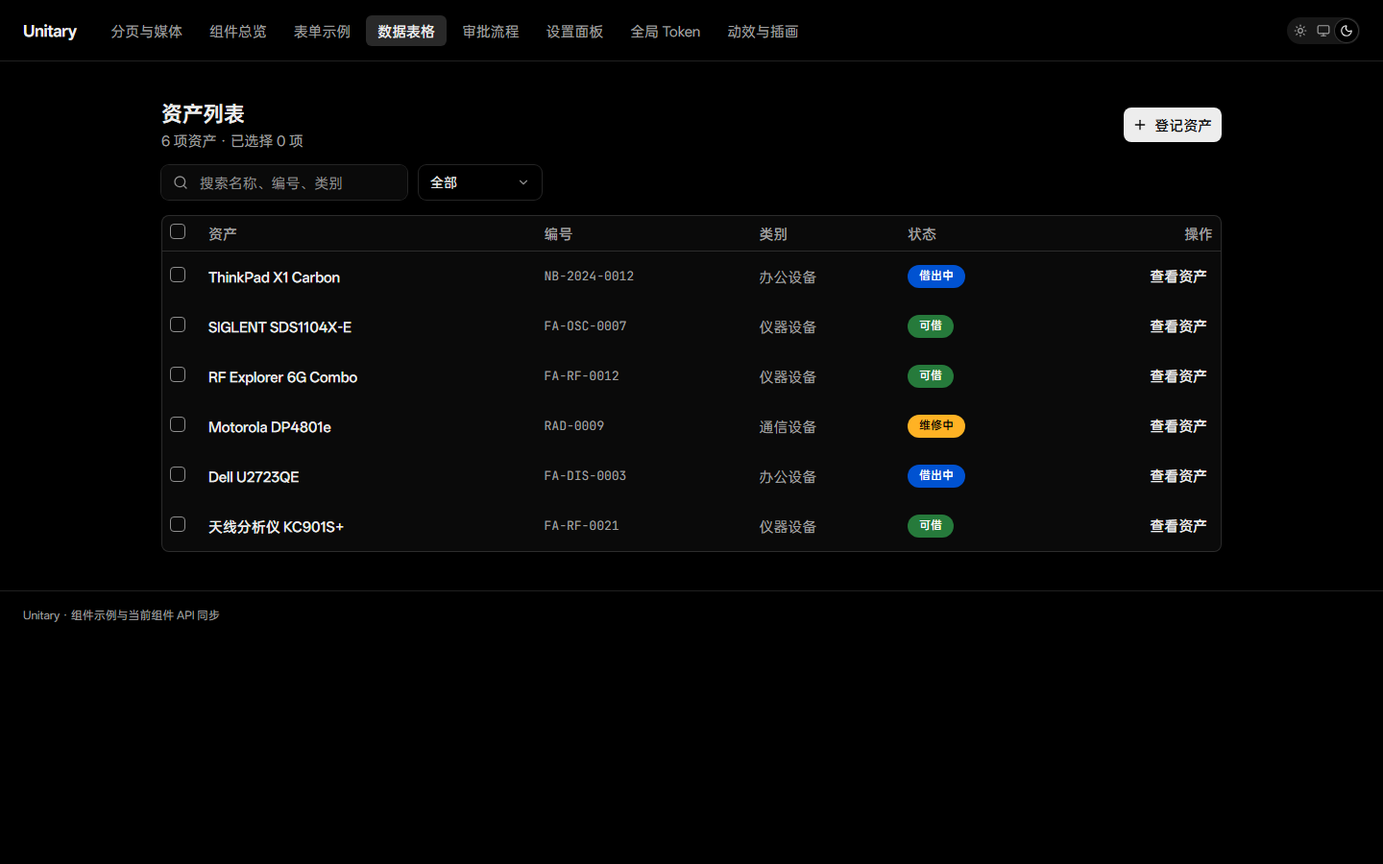
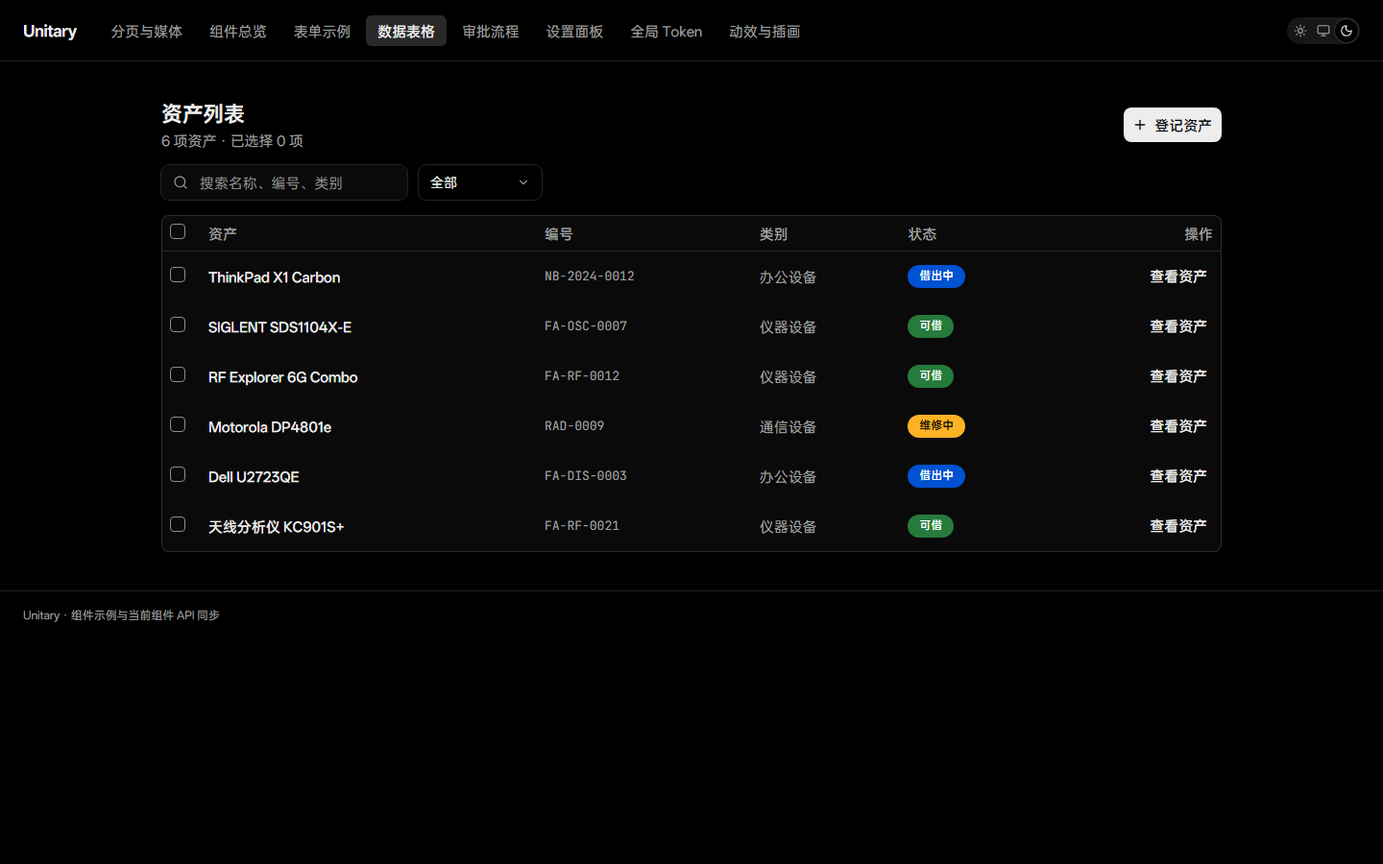
feat(release): add manual beta publishing and portable captures

diff --git a/tests/npm-release.test.ts b/tests/npm-release.test.ts
@@ -6,9 +6,9 @@ import { afterEach, describe, expect, it } from "vitest";
 import { parseDocument } from "yaml";
 import { cleanLibraryOutput } from "../scripts/clean-library-output.mjs";
 import { packageIntegrity, validateInstalledPackage, validatePackageFiles } from "../scripts/lib/package-artifact.mjs";
-import { readPackument, validateArtifact, validateProvenance, validatePublished, validateRelease } from "../scripts/lib/npm-release.mjs";
+import { readPackument, validateArtifact, validateBeta, validateProvenance, validatePublished, validateRelease } from "../scripts/lib/npm-release.mjs";
 
-const manifest = JSON.parse(readFileSync("package.json", "utf8"));
+const manifest = { ...JSON.parse(readFileSync("package.json", "utf8")), version: "0.1.0" };
 const event = { action: "published", release: { draft: false, prerelease: false, tag_name: "v0.1.0" } };
 const directories: string[] = [];
 const fixture = () => {
@@ -79,6 +79,70 @@ describe("npm release validation", () => {
     expect(() => validateProvenance(data, summary, "b".repeat(40))).toThrow("commit");
     expect(() => validateProvenance(data, { ...summary, integrity: packageIntegrity(Buffer.from("different")) }, sha)).toThrow("subject");
     expect(() => validateProvenance({ attestations: [] }, summary, sha)).toThrow("bundle");
+    statement.predicate.buildDefinition.externalParameters.workflow.ref = "refs/heads/master";
+    data.attestations[0].bundle.dsseEnvelope.payload = Buffer.from(JSON.stringify(statement)).toString("base64");
+    expect(() => validateProvenance(data, summary, sha, "refs/heads/master")).not.toThrow();
+    expect(() => validateProvenance(data, summary, sha)).toThrow("workflow");
+  });
+});
+
+describe("manual beta publication", () => {
+  const input = () => ({
+    event: { inputs: { version: "0.1.0-beta.0" } },
+    manifest: { ...manifest, version: "0.1.0-beta.0" },
+    ref: "refs/heads/master",
+    onMaster: true,
+    packument: null,
+  });
+  it("bootstraps only the initial beta and uses OIDC once the package exists", () => {
+    expect(validateBeta(input())).toBe("bootstrap");
+    expect(
+      validateBeta({
+        ...input(),
+        manifest: { ...manifest, version: "0.1.0-beta.1" },
+        event: { inputs: { version: "0.1.0-beta.1" } },
+        packument: { name: manifest.name, versions: {} },
+      }),
+    ).toBe("oidc");
+  });
+  it.each([
+    { ref: "refs/heads/feature" },
+    { ref: "refs/tags/v0.1.0-beta.0" },
+    { onMaster: false },
+    { event: { inputs: { version: "0.1.0-beta.1" } } },
+    { event: {} },
+    { manifest: { ...manifest, version: "0.1.0" } },
+    { manifest: { ...manifest, version: "0.1.0-rc.0" } },
+    {
+      manifest: { ...manifest, version: "0.1.0-beta.1" },
+      event: { inputs: { version: "0.1.0-beta.1" } },
+    },
+    { packument: { name: manifest.name, versions: { "0.1.0-beta.0": {} } } },
+  ])("rejects an invalid beta request %#", (override) => {
+    expect(() => validateBeta({ ...input(), ...override })).toThrow();
+  });
+  it("verifies the beta tag independently of latest", () => {
+    const summary = { version: "0.1.0-beta.0", integrity: "sha512-expected" };
+    const published = {
+      name: manifest.name,
+      publishConfig: { access: "public" },
+      dist: {
+        integrity: summary.integrity,
+        attestations: {
+          provenance: {},
+          url: "https://registry.npmjs.org/-/npm/v1/attestations/package",
+        },
+      },
+    };
+    const packument = {
+      versions: { [summary.version]: published },
+      "dist-tags": { beta: summary.version, latest: "0.0.9" },
+    };
+    expect(() => validatePublished(packument, summary, "beta")).not.toThrow();
+    expect(() => validatePublished(packument, summary)).toThrow("latest");
+    expect(() =>
+      validatePublished({ ...packument, "dist-tags": { beta: "0.1.0-beta.1" } }, summary, "beta"),
+    ).toThrow("beta");
   });
 });
 
@@ -128,13 +192,15 @@ describe("publishing workflow gates", () => {
   it("publishes only after every required validation and scopes the bootstrap credential to one step", () => {
     const parsed = parseDocument(readFileSync(".github/workflows/publish.yml", "utf8"));
     expect(parsed.errors).toEqual([]);
-    type Step = { uses?: string; run?: string; if?: string; env?: Record<string, string> };
+    type Step = { uses?: string; run?: string; if?: string; env?: Record<string, string>; "working-directory"?: string };
     const workflow = parsed.toJS() as {
       on: unknown;
       concurrency: Record<string, unknown>;
       jobs: Record<string, { needs?: string[]; environment?: string; permissions?: Record<string, string>; steps: Step[] }>;
     };
-    expect(workflow.on).toEqual({ release: { types: ["published"] } });
+    expect(workflow.on).toEqual({ release: { types: ["published"] }, workflow_dispatch: { inputs: { version: {
+      description: "Beta version matching package.json (run on master)", required: true, type: "string",
+    } } } });
     expect(workflow.concurrency["cancel-in-progress"]).toBe(false);
     expect(workflow.jobs.package.needs).toEqual(["guard", "ci", "browsers"]);
     const job = workflow.jobs.publish;
@@ -145,8 +211,14 @@ describe("publishing workflow gates", () => {
     expect(credentialSteps).toHaveLength(1);
     expect(credentialSteps[0].if).toBe("steps.artifact.outputs.mode == 'bootstrap'");
     expect(credentialSteps[0].run).toContain('test -n "$NODE_AUTH_TOKEN"');
+    expect(credentialSteps[0].env?.PACKAGE_TAG).toBe("${{ steps.artifact.outputs.tag }}");
+    expect(credentialSteps[0].run).toContain('--tag "$PACKAGE_TAG"');
     const oidc = job.steps.find(step => step.if === "steps.artifact.outputs.mode == 'oidc'");
     expect(oidc?.env?.NODE_AUTH_TOKEN).toBe("");
+    for (const step of [credentialSteps[0], oidc!]) {
+      expect(step["working-directory"]).toBe("${{ runner.temp }}");
+      expect(step.run).toContain('npm publish "$GITHUB_WORKSPACE/.scratch/npm-release/$PACKAGE_FILE"');
+    }
     expect(job.steps.some(step => /pnpm install|build:lib|test:package/.test(step.run ?? ""))).toBe(false);
     const receiptIndex = job.steps.findIndex(step => step.run === "node scripts/npm-release.mjs check-artifact");
     expect(receiptIndex).toBeGreaterThan(0);

diff --git a/tests/e2e/readme-screenshot-settle.spec.ts b/tests/e2e/readme-screenshot-settle.spec.ts
@@ -21,6 +21,21 @@ test("README production preview renders the real styleguide with the capture bro
     expect(requests.some((url) => new URL(url).pathname === "/@vite/client")).toBe(false);
     expect(requests.some((url) => new URL(url).pathname.startsWith("/src/"))).toBe(false);
     await settle(page);
+    const session = await page.context().newCDPSession(page);
+    await session.send("DOM.enable");
+    await session.send("CSS.enable");
+    const { root } = await session.send("DOM.getDocument");
+    const { nodeId } = await session.send("DOM.querySelector", {
+      nodeId: root.nodeId,
+      selector: 'header nav [data-styleguide-page="tokens"]',
+    });
+    const { fonts } = await session.send("CSS.getPlatformFontsForNode", { nodeId });
+    expect(fonts.length).toBeGreaterThan(0);
+    expect(
+      fonts.every((font) => font.isCustomFont),
+      "README captures use shipped fonts even when full fonts are installed",
+    ).toBe(true);
+    await session.detach();
     expect(await page.evaluate(() => matchMedia("(prefers-reduced-motion: reduce)").matches)).toBe(
       true,
     );

diff --git a/tests/e2e/color-schemes.spec.ts b/tests/e2e/color-schemes.spec.ts
@@ -61,7 +61,8 @@ for (const docsTheme of ["light", "dark"] as const) {
         await page.keyboard.press("Tab");
         await page.keyboard.press("Shift+Tab");
         await expect(save).toBeFocused();
-        expect(await save.evaluate(el => getComputedStyle(el).boxShadow)).toContain(await color(page, t["--focus-ring-color"]!));
+        const focusRing = await color(page, t["--focus-ring-color"]!);
+        await expect.poll(() => save.evaluate(el => getComputedStyle(el).boxShadow)).toContain(focusRing);
         await expect(ui.getByRole("button", { name: "已归档", exact: true })).toBeDisabled();
         const input = ui.getByRole("textbox", { name: "项目名称", exact: true });
         await input.fill("Palette preview");

diff --git a/docs/guides/npm-release.en.md b/docs/guides/npm-release.en.md
@@ -2,16 +2,16 @@
 
 [简体中文](./npm-release.md)
 
-The package is `@hustradio/unitary-ui`; the first stable version is `0.1.0`, published under `latest`. Only a formal GitHub Release's `published` event triggers publishing. Drafts, prereleases and tag pushes do not publish.
+The package is `@hustradio/unitary-ui`; the current first version is `0.1.0-beta.0`, published under `beta` by manually dispatching `publish.yml` on `master`, without publishing a GitHub Release. Future stable versions still publish under `latest` through formal Releases. Drafts, prerelease Releases and tag pushes do not publish automatically.
 
 ## Configure the first publication
 
 1. Confirm your npm account can create and publish packages in the `@hustradio` scope and has 2FA enabled. The GitHub repository must be public for public-package provenance.
-2. Create the GitHub Environment `npmjs` and allow version tags to deploy. Configure required reviewers if desired; the publishing job enters this environment after validation succeeds.
+2. Create the GitHub Environment `npmjs` and allow the `master` branch and version tags to deploy. Configure required reviewers if desired; the publishing job enters this environment after validation succeeds.
 3. Create a short-lived granular npm token with only the required scope publishing permissions and bypass 2FA enabled. Save it as the Environment Secret `NPM_TOKEN`. Keep it out of source, examples and logs.
-4. Review the preparation changes before merging. These preparation tools do not commit, push, create an online Release or publish.
+4. Complete full validation before merging preparation changes; commits, pushes and publication require maintainer authorization.
 
-npm requires the package to exist before configuring its trusted publisher. The workflow injects the temporary token only when the package is missing and its version is exactly `0.1.0`. Later versions use OIDC with no token fallback. [Trusted publishing](https://docs.npmjs.com/trusted-publishers/) · [npm trust prerequisites](https://docs.npmjs.com/cli/v11/commands/npm-trust/)
+npm requires the package to exist before configuring its trusted publisher. The workflow injects the temporary token only when the package is missing and its version is exactly the initial beta `0.1.0-beta.0` (or the future initial stable `0.1.0`). Later versions use OIDC with no token fallback. [Trusted publishing](https://docs.npmjs.com/trusted-publishers/) · [npm trust prerequisites](https://docs.npmjs.com/cli/v11/commands/npm-trust/)
 
 ## Local preparation and acceptance
 
@@ -26,30 +26,40 @@ pnpm run verify -- --full
 
 `test:package` cleans and builds `dist`, packs with pnpm, installs the tarball in an independent temporary consumer, and checks types, ESM/CJS, SSR, hydration and both themes' CSS. Internal packing uses `--config.ignore-scripts=true` to avoid repeated `prepack`; standalone `pnpm pack` still builds automatically.
 
-Artifacts appear in `.scratch/npm-release/`: `hustradio-unitary-ui-0.1.0.tgz`, `files.json`, `summary.json` and `SHA256SUMS`. They are ignored local output and must not be committed. Restricted network or browser access requires rerunning in an environment with those permissions, not skipping checks.
+Artifacts appear in `.scratch/npm-release/`: `hustradio-unitary-ui-0.1.0-beta.0.tgz`, `files.json`, `summary.json` and `SHA256SUMS`. They are ignored local output and must not be committed. Restricted network or browser access requires rerunning in an environment with those permissions, not skipping checks.
 
 Generate and review any corpus or screenshot drift using repository commands, then rerun deterministic checks and full verification. Retain all 16 font subsets, bilingual third-party notices and existing risk disclosure; fonts are not relicensed under MIT.
+
+## Publish the beta without a Release
+
+Keep `package.json` at `0.1.0-beta.0`, commit the validated changes to `master`, then manually run:
+
+```sh
+gh workflow run publish.yml --repo HUSTRadio/unitary-ui --ref master -f version=0.1.0-beta.0
+```
+
+The requested version must match the package and be a `-beta.N` version. All CI, the full browser matrix and Windows README screenshots remain required. The final tarball is published with `--tag beta --provenance`; verification checks the `beta` tag and provenance from `refs/heads/master`. No Release or version tag is required. Keep the stable Release as a draft. Keep changelog entries in `Unreleased` until registry verification succeeds.
 
 ## Create a formal Release
 
 1. Keep `package.json` at `0.1.0`; point `v0.1.0` at a reviewed and validated commit in `master` history.
 2. Prepare a GitHub Release draft using the [0.1.0 draft notes](./npm-release-0.1.0.md), verify its tag and clear the prerelease flag. During preparation, keep changes under `Unreleased` in both changelogs.
 3. Publish the formal Release. The workflow checks the event, tag, commit, version and registry, then calls all existing CI and nightly checks, including Windows README screenshots.
-4. After every check passes, create and validate the final tarball. The publishing job downloads that exact artifact, checks its digest and the registry again, then publishes publicly with provenance. It does not install project dependencies, rebuild or execute tarball lifecycle scripts.
+4. After every check passes, create and validate the final tarball. The publishing job downloads that exact artifact, checks its digest and the registry again, then publishes publicly with provenance. It does not install project dependencies, rebuild or execute tarball lifecycle scripts. npm runs from the runner temporary directory so the repository's pnpm-only `devEngines` does not block archive publication.
 5. Inspect `npm-package`, `npm-publication-evidence` and final verification in Actions. The workflow checks the version, `latest`, public access, integrity and provenance bundle, allowing brief registry synchronization.
 
 ## Switch to OIDC after the first release
 
 Configure the package's npm Settings trusted publisher with Organization/user `HUSTRadio`, Repository `unitary-ui`, Workflow filename `publish.yml`, Environment `npmjs`, and permission for direct `npm publish`. Names must match exactly. Use GitHub-hosted runners, Node 24 and npm ≥11.5.1; the workflow grants `id-token: write`. [Official configuration](https://docs.npmjs.com/trusted-publishers/)
 
-Delete the GitHub `NPM_TOKEN` Environment Secret and revoke the temporary token on npm. For subsequent publications, increment the version and tag and create another formal Release. Published `0.1.0` cannot be reused.
+Delete the GitHub `NPM_TOKEN` Environment Secret and revoke the temporary token on npm. Increment subsequent beta versions and manually dispatch the same workflow; stable versions use a new version tag and formal Release. Published versions cannot be reused.
 
 ## Recovery
 
 - Validation fails before publishing: inspect the failed job and artifacts, fix the problem, and prepare the version on the correct commit. Do not bypass failed checks.
 - First-release authentication fails while the registry remains 404: check scope permissions, token expiry and bypass 2FA, then rerun the failed workflow.
 - Later OIDC authentication fails: check the npm trusted publisher's repository, filename, environment and permissions. Do not add token fallback.
-- Publishing or post-publication verification fails: first run `npm view @hustradio/unitary-ui@0.1.0 --registry=https://registry.npmjs.org/ --json`. If the version exists, retain the original artifact digest and check integrity, `latest` and provenance. Do not republish it; a complete rerun deliberately rejects existing versions.
-- The version exists but verification is incomplete: download the original run's `npm-package` and evidence and complete the comparison against registry metadata. Content defects require a new version. If only `latest` differs, a maintainer can repair the dist-tag after confirming the published package. Do not delete a version to attempt republishing.
+- Publishing or post-publication verification fails: first run `npm view @hustradio/unitary-ui@0.1.0-beta.0 --registry=https://registry.npmjs.org/ --json`. If the version exists, retain the original artifact digest and check integrity, `beta` (`latest` for stable versions) and provenance. Do not republish it; a complete rerun deliberately rejects existing versions.
+- The version exists but verification is incomplete: download the original run's `npm-package` and evidence and complete the comparison against registry metadata. Content defects require a new version. If only the target dist-tag differs, a maintainer can repair the dist-tag after confirming the published package. Do not delete a version to attempt republishing.
 
-After confirming the online publication, archive the relevant changelog entries under `0.1.0` in both languages with the actual publication date. Keep subsequent changes under `Unreleased`.
+After confirming the online publication, archive the relevant changelog entries under the published version (`0.1.0-beta.0` initially) in both languages with the actual publication date. Keep subsequent changes under `Unreleased`.

diff --git a/docs/guides/npm-release.md b/docs/guides/npm-release.md
@@ -2,16 +2,16 @@
 
 [English](./npm-release.en.md)
 
-目标包为 `@hustradio/unitary-ui`，首版为 `0.1.0`，正式版本发布到 `latest`。发布由 GitHub 正式 Release 的 `published` 事件触发；草稿、预发布和单独推送 tag 都不会发包。
+目标包为 `@hustradio/unitary-ui`，当前首版为 `0.1.0-beta.0`，发布到 `beta`。从 `master` 手动触发 `publish.yml`，不发布 GitHub Release。未来正式版本仍由正式 Release 的 `published` 事件发布到 `latest`；草稿、预发布 Release 和 tag 推送不会自动发布。
 
 ## 首发前配置
 
 1. 确认 npm 账号有 `@hustradio` scope 的创建及发布权限，并启用账号 2FA。GitHub 仓库必须公开，才能为公开包生成 provenance。
-2. 在 GitHub 仓库创建 `npmjs` Environment，允许版本标签部署；如需要人工审阅，可配置 required reviewers。发布 job 在验证通过后进入该环境。
+2. 在 GitHub 仓库创建 `npmjs` Environment，允许 `master` 分支和版本标签部署；如需要人工审阅，可配置 required reviewers。发布 job 在验证通过后进入该环境。
 3. 为首次创建包准备一个短期 granular npm token，仅授权所需 scope 的包发布并启用 bypass 2FA；将它保存为 `npmjs` 环境 Secret `NPM_TOKEN`。不要写入仓库、命令示例或日志。
-4. 合入发布准备修改之前，审阅全部变更。此指南和准备工具不会提交、推送、创建线上 Release 或调用发布。
+4. 合入发布准备修改之前完成全量验证；提交、推送及实际发布按维护者授权执行。
 
-npm 仅允许为已经存在的包配置 trusted publisher，因此首版使用临时 Token；工作流只有在包不存在且版本恰为 `0.1.0` 时才注入它。后续版本只使用 OIDC，不回退 Token。[npm trusted publishing](https://docs.npmjs.com/trusted-publishers/) · [npm trust 前置条件](https://docs.npmjs.com/cli/v11/commands/npm-trust/)
+npm 仅允许为已经存在的包配置 trusted publisher，因此首版使用临时 Token；工作流只有在包不存在且版本恰为首个 beta `0.1.0-beta.0`（或未来正式首版 `0.1.0`） 时才注入它。后续版本只使用 OIDC，不回退 Token。[npm trusted publishing](https://docs.npmjs.com/trusted-publishers/) · [npm trust 前置条件](https://docs.npmjs.com/cli/v11/commands/npm-trust/)
 
 ## 本地准备与验收
 
@@ -30,26 +30,36 @@ pnpm run verify -- --full
 
 语料或截图检查发现漂移时，使用仓库生成命令生成、审阅修改，再重跑确定性检查和完整验证。保留 16 个字体子集及双语第三方许可和现有风险披露；包并非将字体重新许可为 MIT。
 
+## 无需 Release 发布 beta
+
+将 `package.json` 保持为 `0.1.0-beta.0`，把通过验证的修改提交到 `master` 后手动运行：
+
+```sh
+gh workflow run publish.yml --repo HUSTRadio/unitary-ui --ref master -f version=0.1.0-beta.0
+```
+
+输入版本必须与包版本一致，且为 `-beta.N`。仍须通过全部 CI、全量浏览器矩阵和 Windows README 截图检查。最终压缩包以 `--tag beta --provenance` 发布，核验 `beta` 标签及 `refs/heads/master` 的 provenance。无需 Release 或版本 tag，正式 Release 保持草稿。远端核验成功之前，Changelog 继续保留在 `Unreleased`。
+
 ## 创建正式 Release
 
 1. 保持 `package.json` 版本为 `0.1.0`；将版本 tag `v0.1.0` 指向经过审阅、验证且属于 `master` 历史的提交。
 2. 用 [0.1.0 草稿说明](./npm-release-0.1.0.md) 整理 GitHub Release 草稿，确认选择正确 tag，并取消 prerelease 标记。准备阶段 Changelog 保持 `Unreleased`，不提前声明发布成功。
 3. 发布正式 Release。工作流首先核对事件、tag、提交、版本和 npm 远端，再调用现有 CI 和 nightly 的全部检查，包括 Windows README 截图。
-4. 所有检查通过后，生成并验证最终压缩包；发布 job 下载同一份产物，核对摘要并再次检查远端，然后执行带 provenance 的公开发布。发布 job 不安装项目依赖、不运行构建或压缩包生命周期。
+4. 所有检查通过后，生成并验证最终压缩包；发布 job 下载同一份产物，核对摘要并再次检查远端，然后执行带 provenance 的公开发布。发布 job 不安装项目依赖、不运行构建或压缩包生命周期。npm 从 runner 临时目录执行，避免仓库限定 pnpm 的 `devEngines` 阻止压缩包发布。
 5. 在 Actions 查看 `npm-package`、`npm-publication-evidence` 和最终校验结果。工作流核对远端版本、`latest`、公开访问、integrity 和 provenance bundle，最多等待短暂的 registry 同步。
 
 ## 首版成功后切换 OIDC
 
 在 npm 包 Settings 配置 trusted publisher：Organization/user 为 `HUSTRadio`，Repository 为 `unitary-ui`，Workflow filename 为 `publish.yml`，Environment 为 `npmjs`，允许直接 `npm publish`。环境和文件名必须完全匹配；使用 GitHub 托管 runner、Node 24 和 npm ≥11.5.1。工作流已经设置 `id-token: write`。[官方配置说明](https://docs.npmjs.com/trusted-publishers/)
 
-配置成功后删除 GitHub 环境的 `NPM_TOKEN` Secret，并在 npm 撤销临时 Token。后续发布升版本和 tag，再创建正式 Release；保留当前 `0.1.0` 不可重复发布。
+配置成功后删除 GitHub 环境中的 `NPM_TOKEN` Secret，并在 npm 撤销临时 Token。后续 beta 递增版本并手动触发同一工作流；正式版本更新版本与 tag 后再发布正式 Release。已发布的版本不能重复发布。
 
 ## 失败恢复
 
 - 发布前检查失败：检查对应 job 的输出和产物，修复后在正确提交上重新准备版本；不绕过失败检查。
 - 首版认证失败且 registry 仍为 404：确认 scope 权限、Token 有效期及 bypass 2FA，再重新运行失败工作流。
 - 后续 OIDC 失败：核对 npm trusted publisher 的仓库、文件名、环境及权限；不增加 Token 回退。
-- 发布步骤或发布后校验失败：先查询 `npm view @hustradio/unitary-ui@0.1.0 --registry=https://registry.npmjs.org/ --json`。若版本存在，保留原产物摘要并核对 integrity、`latest` 和 provenance，不重新发同版本；全量重跑会因版本存在被阻止。
-- 版本存在但发布后核验不完整：下载原运行的 `npm-package` 及证据，按摘要和 registry 元数据补做核验。若内容本身有问题，修复后发布新版本；若仅 `latest` 指向不符，维护者核实后单独修复 dist-tag。不要删除版本以尝试重发。
+- 发布步骤或发布后校验失败：先查询 `npm view @hustradio/unitary-ui@0.1.0-beta.0 --registry=https://registry.npmjs.org/ --json`。若版本存在，保留原产物摘要并核对 integrity、`beta`（正式版为 `latest`） 和 provenance，不重新发同版本；全量重跑会因版本存在被阻止。
+- 版本存在但发布后核验不完整：下载原运行的 `npm-package` 及证据，按摘要和 registry 元数据补做核验。若内容本身有问题，修复后发布新版本；若仅目标 dist-tag 指向不符，维护者核实后单独修复 dist-tag。不要删除版本以尝试重发。
 
-线上发布确认后，再将双语 Changelog 的相关变更归档到 `0.1.0`，填写实际发布日；后续变更继续留在 `Unreleased`。
+线上发布确认后，再将双语 Changelog 的相关变更归档到实际发布版本（首版为 `0.1.0-beta.0`），填写实际发布日；后续变更继续留在 `Unreleased`。

diff --git a/CHANGELOG.en.md b/CHANGELOG.en.md
@@ -8,7 +8,7 @@ All notable changes to this project are documented in this file. The format foll
 
 ### Changed
 
-- **npm release preparation**: validates the actual pnpm tarball in an independent TypeScript and browser consumer, cleans stale library output, and prepares formal GitHub Release publishing with first-release token bootstrap followed by OIDC. Includes bilingual publishing instructions and the Material Symbols keycap font license notice. No npm version has been published by this preparation.
+- **npm release preparation**: validates the actual pnpm tarball in an independent TypeScript and browser consumer, cleans stale library output, and prepares manual `0.1.0-beta.0` publishing to `beta` without a GitHub Release, retaining future stable Release publishing with first-package token bootstrap followed by OIDC. Includes bilingual publishing instructions and the Material Symbols keycap font license notice. No npm version has been published by this preparation.
 
 - **Nonlinear motion curves**: aligns the component library, website, styleguide and Hitu illustrations around quick responses, soft finishes or smooth starts and finishes. The three Bezier curves are project-selected values, not official Apple parameters, and add no spring engine. Retains the 150 / 250 / 350 / 500ms duration tiers, with CSS as the only parameter source and JS defaults derived by the token generator; entering and existing independent exit phases consume semantic curves. Continuous loading rotations remain constant-rate, native gestures remain direct, and data geometry interpolation is unchanged.
 - **Motion and Hitu easing contract**: all four `useMotionTransition` tiers read `--ease-snap`, retaining valid scoped nonlinear overrides; linear or identity-Bezier configurations complete instantly. Omitting `HituFrame.cubic` changes Hitu's former linear interpolation to `[0.42, 0, 0.58, 1]`, while explicit nonlinear curves remain supported. Shared time-progress solving preserves endpoints and sparse-transform inheritance.
@@ -16,6 +16,10 @@ All notable changes to this project are documented in this file. The format foll
 - **Bilingual motion specification and examples**: adds the [nonlinear motion specification](./docs/design/apple-motion-curves.en.md), covering curve provenance, governance exceptions and migration steps; synchronizes the Motion / Hitu, Carousel, Scroller and chart APIs, guides and live examples. The historical Hitu integration audit is preserved.
 
 ### Fixed
+
+- **npm 11 tarball publishing**: publishes the verified archive from the runner temporary directory, avoiding the repository's pnpm-only `devEngines` check without changing project package-manager constraints or rebuilding the artifact.
+
+- **Portable README capture fonts**: screenshot capture uses the shipped font subsets instead of locally installed full fonts, keeping Windows CI and maintainer captures comparable without changing the library's font preference or pixel tolerance.
 
 - **Cross-platform CI consistency**: repository task paths reject Windows, UNC and POSIX absolute inputs on every platform, preserving relative paths and real-path containment checks. The LLM corpus retains MiddleTruncate's complete original value from real HTML and excludes chart tooltips that change with hover. Example code, legends, headings and APIs remain intact, keeping runtime measurements and interaction state out of generated output.
 

diff --git a/CHANGELOG.md b/CHANGELOG.md
@@ -8,7 +8,7 @@
 
 ### Changed
 
-- **npm 发布准备**：在独立 TypeScript 与浏览器消费项目中验证真实 pnpm 压缩包，清理陈旧库产物，并准备由正式 GitHub Release 触发、首版临时 Token 启动后切换 OIDC 的发布工作流。补充双语操作指南及 Material Symbols 键帽字体许可登记。本次准备尚未发布 npm 版本。
+- **npm 发布准备**：在独立 TypeScript 和浏览器消费项目中验证真实 pnpm 压缩包，构建前清除旧库产物，并准备无需 GitHub Release、手动发布 `0.1.0-beta.0` 到 `beta` 的工作流。保留后续正式 Release 发布及首个包临时 Token 后续切换 OIDC；补齐双语发布指南和 Material Symbols 键帽字体许可登记。准备阶段尚未发布 npm 版本。
 
 - **非线性动效曲线**：组件库、官网、styleguide 与 Hitu 插画统一使用快速响应、柔和收尾或平滑起止的曲线；三组贝塞尔参数由本项目选择，不是 Apple 官方数值，也不引入弹簧引擎。保留 150 / 250 / 350 / 500ms 四档时长，CSS 是参数唯一来源，JS 默认表由 token 生成器派生；进入和已有独立退出阶段分别消费语义曲线。持续旋转的加载器仍匀速，原生手势保持跟手，数据几何插值不变。
 - **Motion 与 Hitu 曲线契约**：`useMotionTransition` 四档统一读取 `--ease-snap`，有效的局部非线性覆盖继续生效；线性或恒等贝塞尔配置即时完成。Hitu 省略 `HituFrame.cubic` 时由原先的线性插值改为 `[0.42, 0, 0.58, 1]`，显式非线性配置仍可使用；共享时间轴求解保留端点和稀疏变换继承。
@@ -16,6 +16,10 @@
 - **双语动效规范与示例**：新增[非线性动效规范](./docs/design/apple-motion-curves.md)，记录曲线来源、非线性治理例外与迁移步骤；同步 Motion / Hitu、Carousel、Scroller、图表的 API、指南和真实示例。历史 Hitu 接入审计保留原样。
 
 ### Fixed
+
+- **npm 11 压缩包发布**：从 runner 临时目录发布已验证压缩包，避免仓库限定 pnpm 的 `devEngines` 检查阻止 npm 发布；项目包管理器约束保持不变，发布时不重新构建。
+
+- **README 截图字体一致性**：截图使用随包提供的字体子集，避免本机已安装的完整字体改变排版，使 Windows CI 与维护者截图可直接比较；组件库的字体优先级和像素容差保持不变。
 
 - **跨平台 CI 一致性**：仓库任务路径在所有平台拒绝 Windows、UNC 与 POSIX 绝对路径，并保留相对路径和真实路径边界检查。LLM 语料从真实 HTML 中保留 MiddleTruncate 的完整原值，排除图表随悬停变化的 Tooltip；演示代码、图例、标题和 API 保持完整，避免运行时测量或交互状态影响生成结果。
 

diff --git a/README.en.md b/README.en.md
@@ -18,7 +18,7 @@ A React component library based on the Vercel Geist design language, with design
 ## Installation
 
 ```bash
-pnpm add @hustradio/unitary-ui
+pnpm add @hustradio/unitary-ui@beta
 ```
 
 ## Quick start
@@ -82,7 +82,7 @@ pnpm run test:package
 
 This rebuilds and packs the library, installs the tarball in an independent consumer, checks TypeScript, ESM/CJS, server rendering and hydration, then verifies the published CSS in Chromium in both themes. Validated tarballs, file lists and digests are saved under `.scratch/npm-release/`.
 
-Publishing is prepared for formal GitHub Releases: all CI and browser checks must pass before the exact validated tarball is published. The initial `0.1.0` uses a temporary environment token; later versions use npm trusted publishing. See the [publishing guide](https://github.com/HUSTRadio/unitary-ui/blob/master/docs/guides/npm-release.en.md) and [Release draft](https://github.com/HUSTRadio/unitary-ui/blob/master/docs/guides/npm-release-0.1.0.md) for external configuration and recovery.
+The current target is `0.1.0-beta.0` under npm's `beta` tag, manually dispatched from `master` through `publish.yml` without publishing a GitHub Release. All CI and browser checks must pass before the exact validated tarball is published. The first package uses a temporary environment token; later versions use npm trusted publishing. See the [publishing guide](https://github.com/HUSTRadio/unitary-ui/blob/master/docs/guides/npm-release.en.md) for configuration and recovery. The stable [0.1.0 Release draft](https://github.com/HUSTRadio/unitary-ui/blob/master/docs/guides/npm-release-0.1.0.md) is reserved for later.
 
 ## Continuous integration
 

diff --git a/README.md b/README.md
@@ -18,7 +18,7 @@ To LLM Agents: see [AGENTS.md](./AGENTS.md) for llm-specified documentation.
 ## 安装
 
 ```bash
-pnpm add @hustradio/unitary-ui
+pnpm add @hustradio/unitary-ui@beta
 ```
 
 ## 快速开始
@@ -82,7 +82,7 @@ pnpm run test:package
 
 该命令重新构建并打包库，在独立消费项目中安装压缩包，检查 TypeScript、ESM/CJS、服务端渲染和 hydration，再用 Chromium 检查双主题发布样式。验证后的压缩包、文件清单和摘要保存于 `.scratch/npm-release/`。
 
-已准备由正式 GitHub Release 触发的发布流程：全部 CI 和浏览器检查通过后，发布同一份已验证压缩包。首版 `0.1.0` 使用临时环境 Token，后续版本使用 npm trusted publishing。外部配置与失败恢复见[发布指南](https://github.com/HUSTRadio/unitary-ui/blob/master/docs/guides/npm-release.md)及 [Release 草稿](https://github.com/HUSTRadio/unitary-ui/blob/master/docs/guides/npm-release-0.1.0.md)。
+当前准备发布 `0.1.0-beta.0` 到 npm 的 `beta` 标签，通过 `publish.yml` 从 `master` 手动触发，无需发布 GitHub Release。全部 CI 和浏览器检查通过后发布同一份已验证压缩包；首个包使用临时环境 Token，后续版本使用 npm trusted publishing。外部配置与失败恢复见[发布指南](https://github.com/HUSTRadio/unitary-ui/blob/master/docs/guides/npm-release.md)。正式 `0.1.0` 的 [Release 草稿](https://github.com/HUSTRadio/unitary-ui/blob/master/docs/guides/npm-release-0.1.0.md) 留待后续发布。
 
 ## 持续集成
 
